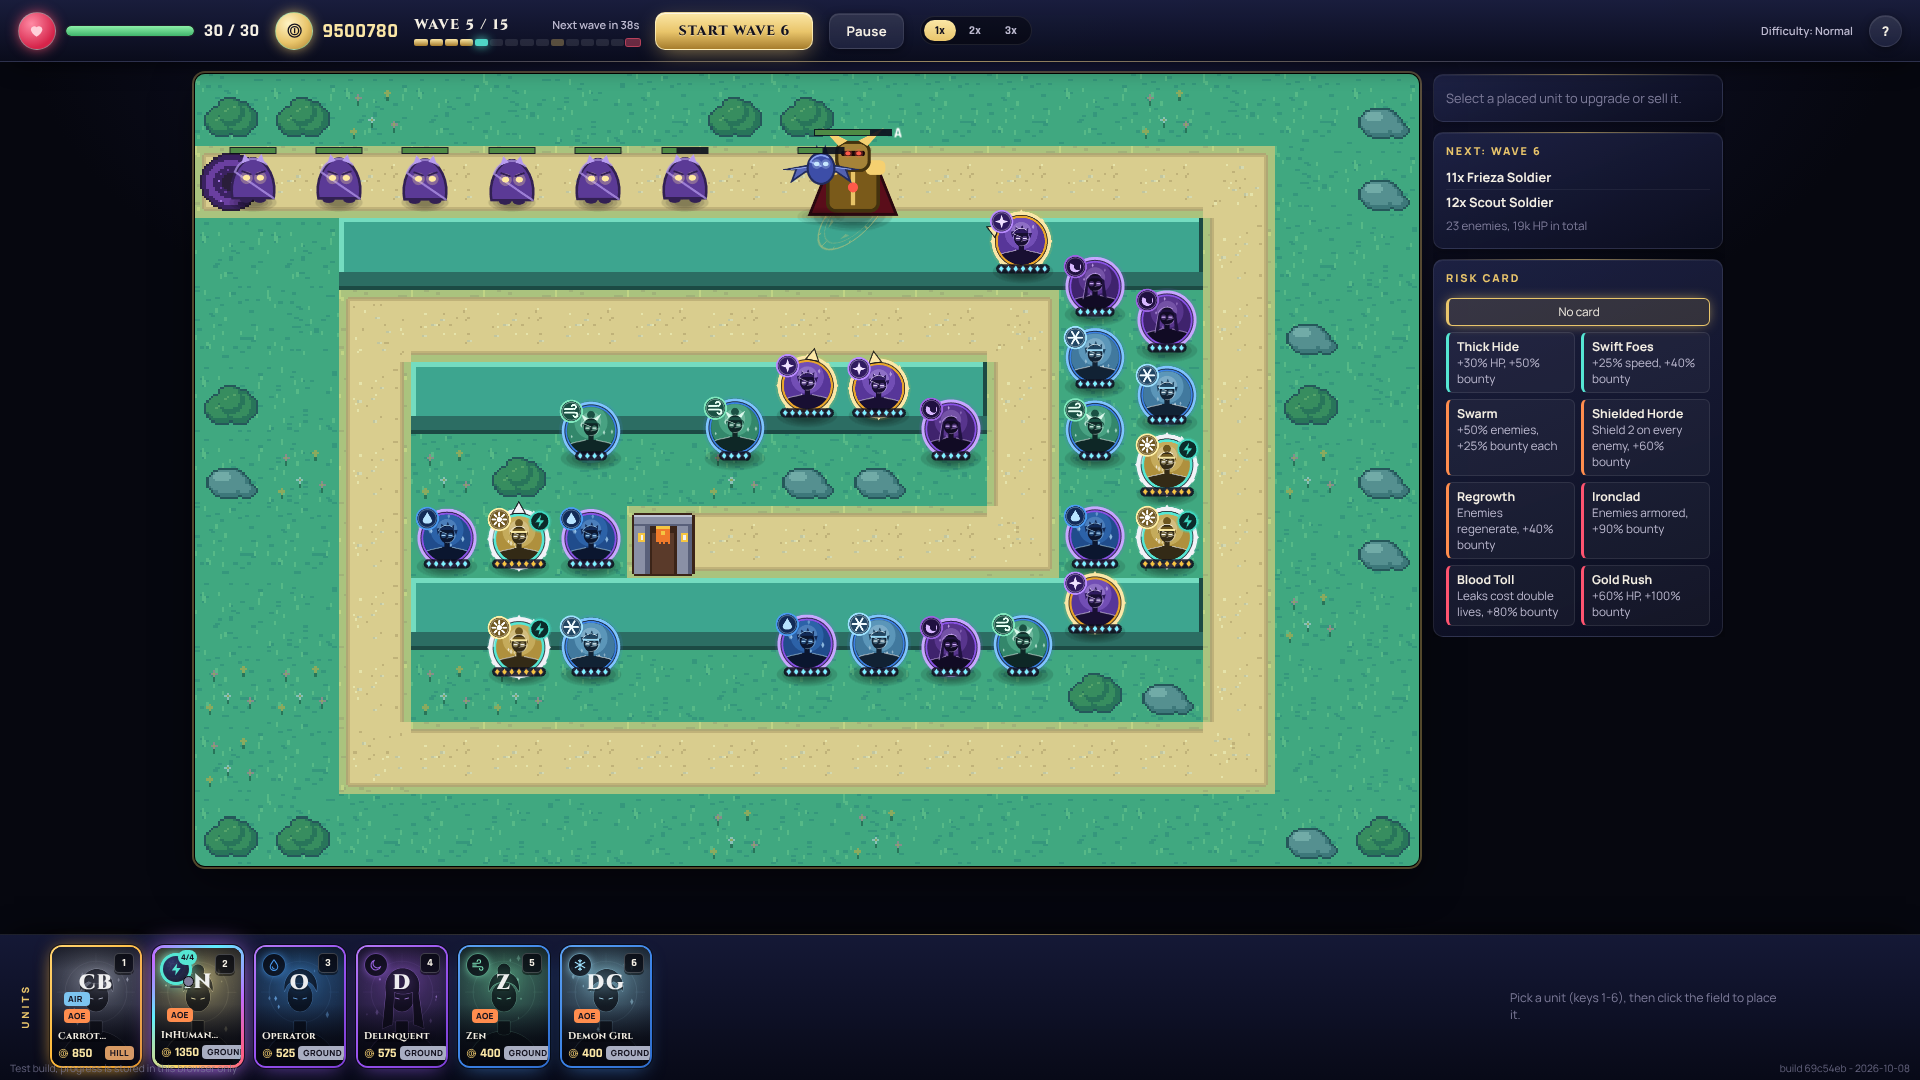
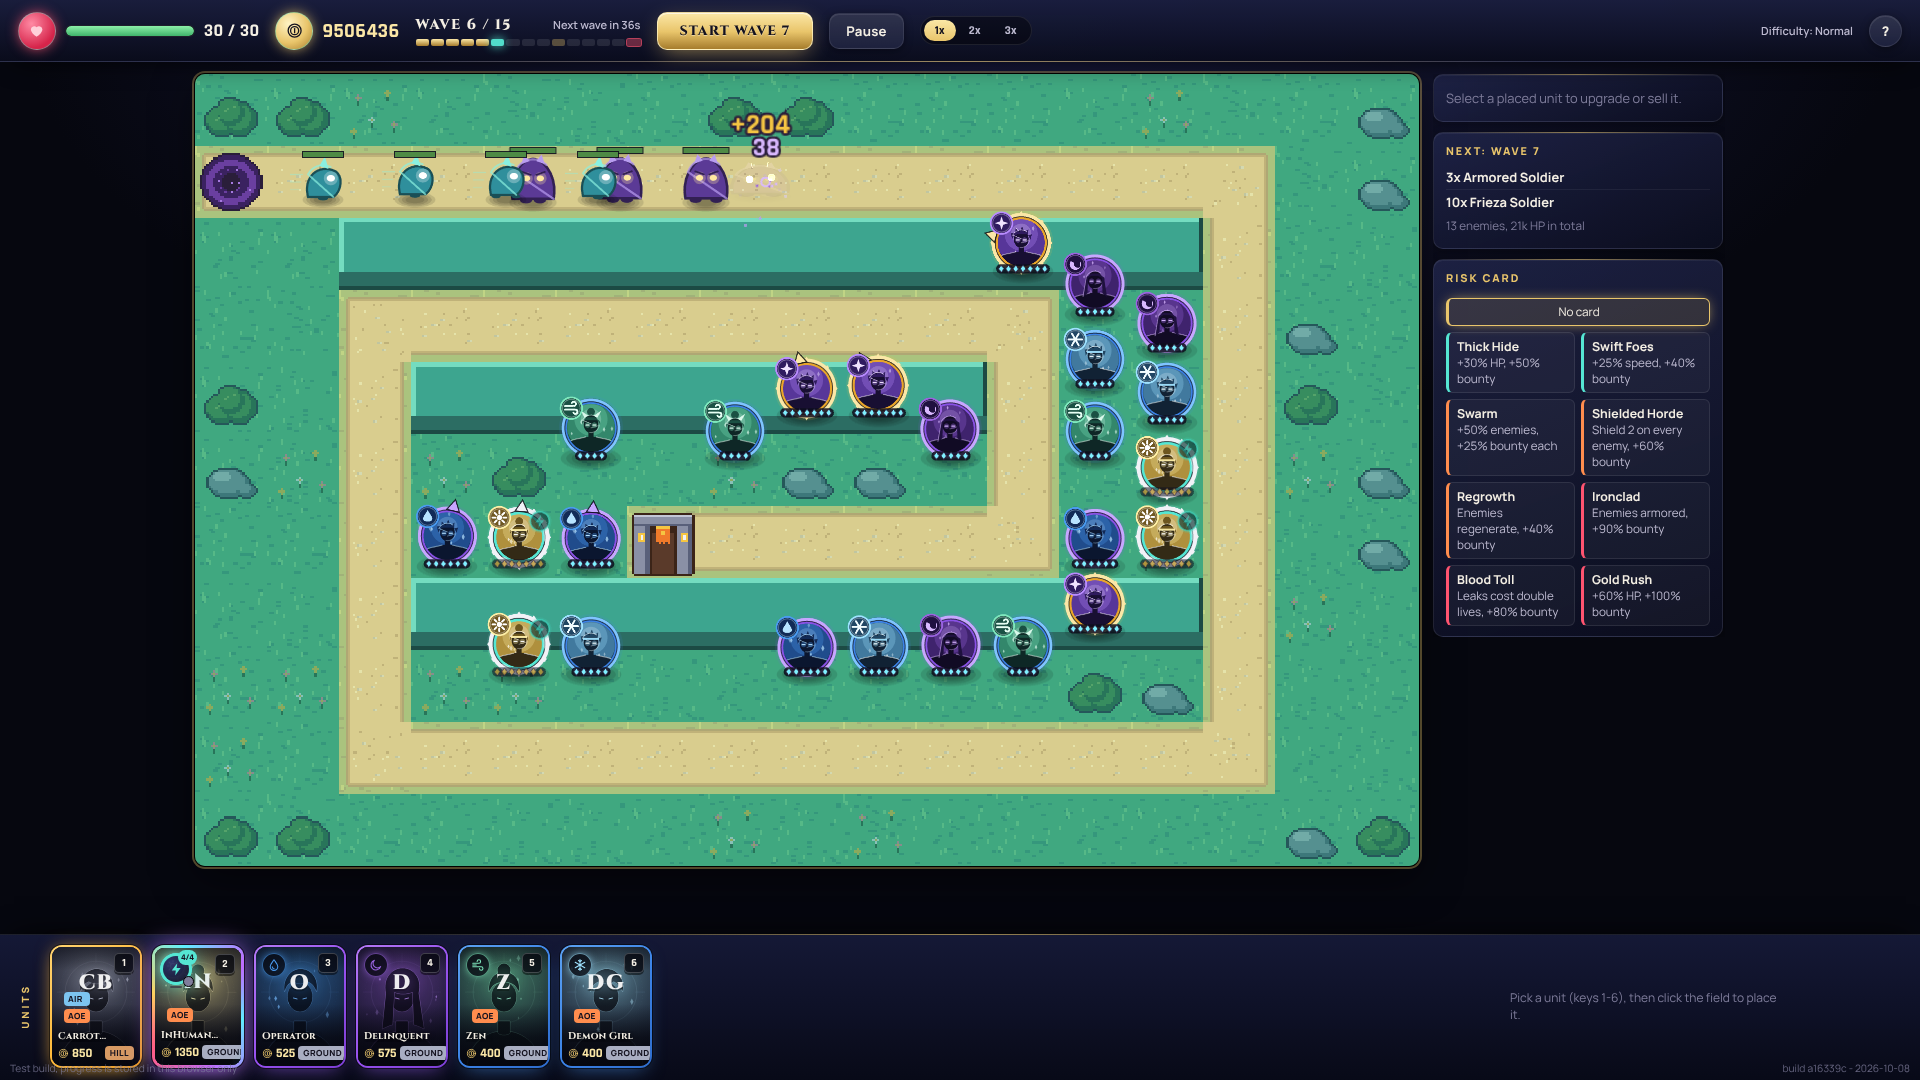
wip(r10-p2): README, ATTRIBUTIONS, Galerie-Skript, Aufsetz-Aufnahmen
Claude-Session: https://claude.ai/code/session_01LVAUDA1LFSz1X1v4vXCdua

diff --git a/client/src/game/fx.ts b/client/src/game/fx.ts
@@ -637,35 +637,49 @@ export class Fx {
   }
 
   private shoot(style: HitStyle, def: UnitDef, u: UnitState, ox: number, oy: number, tx: number, ty: number, rangeMilli: number, T: number): void {
-    const look = attackLook(style, def);
-    const el = look.element;
     const attack = def.levels[Math.min(u.level, def.levels.length - 1)].attack;
+    this.fire(style, attackLook(style, def), attack, rangeMilli, ox, oy, tx, ty, T);
+  }
+
+  /**
+   * Zeigt eine Angriffsform in einem Element ohne Sim (Galerie-Screenshot, Pruefskripte): Pixel-Koordinaten, Reichweite in Milli-Tiles.
+   * Nur Darstellung, es entsteht weder Schaden noch ein Ereignis.
+   */
+  demo(style: HitStyle, element: string, ox: number, oy: number, tx: number, ty: number, rangeMilli = 4000, radiusMilli = 1500): void {
+    const magic = element === 'magic' || element === 'true';
+    const look = attackLook(style, { elements: magic || element === 'physical' ? [] : [element], damageType: element === 'magic' ? 'magic' : element === 'true' ? 'true' : 'physical' });
+    this.fire(style, look, { radiusMilli, widthMilli: 700, coneDeg: 70 }, rangeMilli, ox, oy, tx, ty, this.ctx.tile);
+    for (const fn of this.shotListeners) fn(style, look.element.key);
+  }
+
+  private fire(style: HitStyle, look: ReturnType<typeof attackLook>, attack: { radiusMilli?: number; widthMilli?: number; coneDeg?: number } | null, rangeMilli: number, ox: number, oy: number, tx: number, ty: number, T: number): void {
+    const el = look.element;
     const ang = Math.atan2(ty - oy, tx - ox);
     const dist = Math.hypot(tx - ox, ty - oy);
     const mx = ox + Math.cos(ang) * T * 0.38;
     const my = oy + Math.sin(ang) * T * 0.38;
-    this.addEff({ k: K.Glow, dur: 0.1, x: mx, y: my, r: T * 0.2, color: el.main, w: 0.8 });
+    this.addEff({ k: K.Glow, dur: 0.1, x: mx, y: my, r: T * 0.22, color: el.main, w: 0.8 });
     switch (style) {
       case 'slash':
-        this.addEff({ k: K.Slash, dur: 0.22, x: tx, y: ty, r: T * 0.38, ang, w: Math.max(3, T * 0.07), el, shape: look.shape });
-        this.elBurst(el, tx, ty, 4, T * 1.4, 0.3, 4);
+        this.addEff({ k: K.Slash, dur: 0.24, x: tx, y: ty, r: T * 0.42, ang, w: Math.max(3, T * 0.08), el, shape: look.shape });
+        this.elBurst(el, tx, ty, 5, T * 1.5, 0.32, 4);
         break;
       case 'blast':
       case 'shell': {
         const R = ((attack?.radiusMilli ?? 1200) / 1000) * T;
         if (rangeMilli <= 2000) {
           // Nahkampf-Welle: kein Flug, die Druckwelle kommt gleich am Ziel
-          this.addEff({ k: K.Wave, dur: 0.34, x: tx, y: ty, r2: R, w: Math.max(2.5, T * 0.06), el, shape: look.shape });
+          this.addEff({ k: K.Wave, dur: 0.36, x: tx, y: ty, r2: R, w: Math.max(2.5, T * 0.07), el, shape: look.shape });
           this.elBurst(el, tx, ty, R > T * 1.5 ? 14 : 8, T * 2.2, 0.5, 5);
         } else {
           const d = this.projDur('orb', dist, T);
-          this.addEff({ k: K.Proj, dur: d, x: mx, y: my, x2: tx, y2: ty, r: T * 0.14, w: T * 0.08, el, shape: 'orb', after: After.Blast, r2: R });
+          this.addEff({ k: K.Proj, dur: d, x: mx, y: my, x2: tx, y2: ty, r: T * 0.15, w: T * 0.09, el, shape: 'orb', after: After.Blast, r2: R });
         }
         break;
       }
       case 'cone': {
         const half = ((attack?.coneDeg ?? 60) * Math.PI) / 360;
-        this.addEff({ k: K.Fan, dur: 0.34, x: ox, y: oy, r: (rangeMilli / 1000) * T, ang, spread: half, el, shape: look.shape });
+        this.addEff({ k: K.Fan, dur: 0.36, x: ox, y: oy, r: (rangeMilli / 1000) * T, ang, spread: half, el, shape: look.shape });
         this.elBurst(el, ox + Math.cos(ang) * T * 0.6, oy + Math.sin(ang) * T * 0.6, 6, T * 2.2, 0.4, 4);
         break;
       }
@@ -677,13 +691,13 @@ export class Fx {
         break;
       }
       case 'line':
-        this.addEff({ k: K.Beam, dur: 0.24, x: ox, y: oy, r: (rangeMilli / 1000) * T, w: ((attack?.widthMilli ?? 600) / 1000) * T, ang, el, shape: look.shape });
+        this.addEff({ k: K.Beam, dur: 0.26, x: ox, y: oy, r: (rangeMilli / 1000) * T, w: ((attack?.widthMilli ?? 600) / 1000) * T, ang, el, shape: look.shape });
         this.elBurst(el, tx, ty, 4, T * 1.3, 0.3, 4);
         break;
       default: {
         // Einzelziel aus der Ferne: Geschoss in Form des Elements
         const d = this.projDur(look.shape, dist, T);
-        this.addEff({ k: K.Proj, dur: d, x: mx, y: my, x2: tx, y2: ty, r: T * (look.shape === 'bullet' ? 0.06 : 0.1), w: T * (look.shape === 'bolt' ? 0.05 : 0.04), el, shape: look.shape, after: After.Impact });
+        this.addEff({ k: K.Proj, dur: d, x: mx, y: my, x2: tx, y2: ty, r: T * (look.shape === 'bullet' ? 0.075 : 0.12), w: T * (look.shape === 'bolt' ? 0.06 : 0.05), el, shape: look.shape, after: After.Impact });
       }
     }
   }

diff --git a/client/README.md b/client/README.md
@@ -107,14 +107,17 @@ Seit P0b (Runde 5) sind `ui/app.ts` und `game/renderer.ts` nur noch Verdrahtung.
 | `src/game/renderer.ts` | nur Pixi-Setup, Ebenen-Reihenfolge, `fit`, `draw()` | - (nicht anfassen) |
 | `src/game/map-layer.ts`, `map-compose.ts`, `palette.ts` | Karte aus Atlas-Kacheln (`map-compose` = reine Liste der Bilder, getestet) plus Huegel als Flaeche (`hillRects`, aus `stage.zones`; keine Slot-Platten mehr), Farben fuer Overlays | P4, Runde 6: P3 |
 | `src/game/atlas.ts` | laedt `assets/atlas/atlas.png|json`, Teil-Texturen, `scaleMode: 'nearest'` | P4 |
-| `src/game/sprites.ts` | Sprite-Fabrik fuer Units/Gegner (Atlas), Stufenpunkte, Auswahlring | P4 |
+| `src/game/figures.ts` | Runde 10 / P2: Figuren-Fabrik. Backt Texturen einmal (Portraet-Scheibe mit Seltenheits-Ring, gestaltete Ersatzfigur ohne Bild, Gegner je Typ in zwei Schrittbildern, Schatten, Element-Abzeichen, Glanz, Blickrichtungs-Keil, Splitter-Formen, Aura) und merkt sie je Kachelgroesse. Ersetzt `sprites.ts` (Atlas-Sprites) | P2 (Runde 10) |
 | `scripts/gen-sprites.mjs`, `scripts/build-atlas.mjs`, `scripts/lib/` | Pixel-Quellbilder erzeugen und zum Atlas packen; `scripts/shots-p4.mjs` Lesbarkeits-Screenshots | P4 |
 | `assets/` | `src/` (Quellbilder), `atlas/` (gepackt), `ATTRIBUTIONS.md` | P4 |
-| `src/game/entities-layer.ts` | Units/Gegner anlegen, positionieren, Lebensbalken | P4 |
+| `src/game/entities-layer.ts` | Units/Gegner anlegen, positionieren: Unit = Schatten + Scheibe + Ring + Pips + Element-Abzeichen + Keil zum Ziel (Wippen, Rueckstoss, Aufsetz-Hopser), Gegner = Figur je Typ mit Schrittbild, Blitz, Balken aus Sprites, Boss-Namensbanner, Aufloesung beim Tod | P4, Runde 10: P2 |
 | `src/game/overlay-layer.ts` | Reichweitenkreis (unter Figuren), Boss-Telegraph (Schraffur, Countdown, Fortschritt zum Brechen)/-Fenster (Panzer offen vs. keucht)/-Schild (darueber); Platzier-Modus: Zonen-Hervorhebung + Abdunkeln, Geist gruen/rot mit Grund, Reichweitenkreis | P1 (Platzieren, Runde 6: P3), P5 (Boss-Zeichnung) |
-| `src/game/fx.ts` | Effekte (P5): Schuesse/Treffer je Unit (Projektil, Aufschlag, Blast, Kegel, Linie), Schadenszahlen, Tod mit Zerfall, Muenz-Popup, Leak-Rand, Boss-Auftritt/-Phasen, Bildschuettern; alles gepoolt und gedeckelt. Liest nur Bus-Ereignisse und Sim-Zustand | P5 |
+| `src/game/fx.ts` | Effekte (P5, Runde 10 neu): Schuesse je Angriffsform x Element, Treffer-Funken, Schadenszahlen (Krit gelb und gross), Tod mit Muenzen, Aufsetz-/Upgrade-/Verkaufs-Effekt (am Befehl), Leak-Rand, Boss-Auftritt/-Phasen, Bildschuettern (Schalter `screenShake`); Splitter als Sprite-Pools (normal/additiv, je 130), Effekt-Deckel 90, `detailFactor` duennt bei Last aus. `Fx.demo()` zeigt eine Form in einem Element ohne Sim (Galerie-Skript). Liest nur Bus-Ereignisse und Sim-Zustand | P5, Runde 10: P2 |
+| `src/game/attack-gfx.ts` | Runde 10 / P2: reine Zeichenfunktionen je Angriffsform (Geschoss, Hieb, Druckwelle, Faecher, Strahl) mit Verzierung je Element (Feuer-Zungen, Wasser-Wellen, Eis-Kristall, Blitz-Zacken, Wind-Sicheln, Licht-Strahlen, Dunkel-Strudel, Rosenblaetter, Runenring) | P2 (Runde 10) |
 | `src/view/feel.ts` | reine Logik dazu (getestet): Trefferstil je Unit, Schuss-Erkennung (`cd` steigt), Zielwahl-Nachbildung, Schadenszahlen aus HP-Differenz, Ereignis -> Cue | P5 |
-| `src/audio/` | Ton (P5): `logic.ts` (Lautstaerke, Drosselung, Ereignis -> Klang, getestet), `recipes.ts` (Klang-Rezepte + Musik, nur Daten), `engine.ts` (WebAudio-Synthese, M = stumm, Context erst nach erster Nutzeraktion) | P5 |
+| `src/view/look.ts` | Runde 10 / P2, reine Daten und Logik (getestet): Elementfarben und Splitterart (`ELEMENT_LOOKS`), Seltenheits-Ringe, Gegner-Figuren je Typ (`ENEMY_LOOKS`), `attackLook(style, def)` = Angriffsform x Element -> Grafik, Krit-Schaetzung, `detailFactor` (Splitter-Deckel), Blickrichtung, Wippen, Aufsetz-Kurve | P2 (Runde 10) |
+| `src/ui/cutin.ts`, `cutin.css` | Runde 10 / P2: Faehigkeits-Ansage (Band in Elementfarbe, Karte der Unit, Name der Faehigkeit gross); nur fuer ausgeloeste Faehigkeiten, laeuft ueber dem Spiel ohne zu pausieren, `cutInModel` ist rein und getestet | P2 (Runde 10) |
+| `src/audio/` | Ton (P5): `logic.ts` (Lautstaerke, Drosselung, Ereignis -> Klang, getestet), `recipes.ts` (Klang-Rezepte + Musik, nur Daten), `engine.ts` (WebAudio-Synthese, M = stumm, Context erst nach erster Nutzeraktion). Runde 10 / P2 daneben: `logic-match.ts` (Schuss-Klang je Form x Element, Krit, Ansage, Boss-Tod) und `recipes-match.ts` (deren Rezepte); in den gemeinsamen Dateien nur die Typ-Union, die Drossel-Regeln und eine Zeile je im Motor | P5, Runde 10: P2 |
 | `src/ui/leak-shake.ts` | Leak: Leben-Anzeige wackelt (CSS-Klasse am Bus) | P5 |
 | `src/ui/app.ts` | Verdrahtung der DOM-Bausteine, `bind`/`update`/`showStart` | - (nur Einzeiler, ggf. P6 fuer Szenen) |
 | `src/ui/hud.ts` | Leben, Muenzen, Welle, Start/Pause, Tempo, Stufe | P1 |
@@ -137,6 +140,7 @@ Seit P0b (Runde 5) sind `ui/app.ts` und `game/renderer.ts` nur noch Verdrahtung.
 | `src/styles.css` | Stil; Abschnitte je Baustein ergaenzen, nichts umsortieren | alle, nur eigene Selektoren |
 | `src/game/recorder.ts`, `src/ui/download.ts` | Replay-Aufzeichnung (nur am `GameBus`) und JSON-Download (`replayDownloadBox()` fuer den End-Bildschirm, Pause-Knopf selbst eingehaengt); Nachspielen: `sim/scripts/replay.ts`, Abnahme `npm run replay-check` | P2 |
 | `scripts/smoke.mjs`, `scripts/lib/mouse.mjs` | Playwright-Smoke; `mouse.mjs` liest freie Stellen (`placementGrid`/`canPlace`, nur lesend) und klickt sie per echter Maus (auch von `replay-check.mjs` genutzt) | P1, Runde 6: P3 |
+| `scripts/perf-r10.mjs`, `shots-r10-p2.mjs`, `lib/profile.mjs` | Runde 10 / P2: Leistungsbeleg (30 Units, 80 Gegner, 1920x1080) und die Match-Screenshots samt Angriffs-Galerie nach `docs/r10/p2-*.png` (siehe unten) | P2 (Runde 10) |
 | `scripts/perf.mjs`, `shots-p5.mjs`, `audio-check.mjs`, `lib/drive.mjs` | FPS-Messung (W19, 3x, 1920x1080), P5-Screenshots, Ton-Pruefung; `drive.mjs` baut Runden ueber die Session-Schnittstelle auf | P5 |
 
 ### Haken: `GameBus` (`game/events.ts`)
@@ -164,6 +168,21 @@ Reproduzierbar: seedbarer Zufall, feste Packreihenfolge und Kompression, zweimal
 `gen-sprites.mjs` prueft das Farbbudget je Bild (Styleguide §4: 16, Pfadkacheln 24). Bilder von Hand oder aus Packs: PNG nach `assets/src/` legen (gleiche Namen ersetzen die erzeugten, dann `gen-sprites` **nicht** mehr laufen lassen oder dort die Zeile entfernen)
 und `node scripts/build-atlas.mjs`. Der Atlas wird als URL-Import gebuendelt (`dist/assets/atlas-*.png`, ~10 kB). Zeichenreihenfolge der Karte: Gras, Pfad (Kantenmaske), Huegel-Flaechen (Canvas-Rechtecke), Deko (Baeume/Felsen nur auf `#`-Kacheln, Blumen auf Boden), Spawn/Basis; die Atlas-Bilder `slot_*` aus Runde 5 sind ungenutzt (bleiben im Atlas);
 Figuren sind Sprites (Gegner mit zwei Geh-Frames, Blickrichtung per Spiegeln, Flieger mit Boden-Schatten). Palette-Swap: `Img.swap()` in `scripts/lib/pix.mjs` (fuer spaetere CC0-Packs).
+
+## Das Match im neuen Look (Runde 10, P2)
+
+Aussehen wird in `view/look.ts` entschieden (Daten, getestet) und in `game/figures.ts` (Figuren) und `game/attack-gfx.ts` (Angriffe) gezeichnet. Nichts davon liest Spielregeln; die Sim bleibt unveraendert.
+
+- **Units:** Portraet-Scheibe (`/aa/units/<id>.webp`, Mechanismus aus `view/portrait.ts` unveraendert) mit Seltenheits-Ring (Rare blau ... Secret weiss/tuerkis, ab Mythic mit drehendem Glanz), Schatten, Wippen im Stand (Phase je Unit), Keil am Ring zeigt zum Ziel (dreht weich), Stufen-Pips unten (Gold, bei Max-Stufe tuerkis), Element-Abzeichen oben links, Faehigkeit-bereit-Zeichen oben rechts. **Ohne Bild** steht eine gestaltete Ersatzfigur (Silhouette, Frisur und Zubehoer aus der ID, leuchtende Augen, Farbe aus dem Element), nie Initialen. Das Bild wird nachgeladen, sobald `hasPortrait` Ja sagt; die Figur tauscht sich dann selbst aus.
+- **Platzieren:** Geist ist die Portraet-Figur (halbtransparent, rot getoent an unerlaubter Stelle) mit Reichweitenkreis; nach dem Setzen faellt die Figur mit Hopser und Quetschen, ein Ring zieht sich zusammen und weitet sich beim Aufsetzen, Staub und (ab Legendary) Funken in Ringfarbe; Ton `place` hat den Aufschlag eingebaut. Der Effekt haengt am **Befehl** (`bus.onCommand`), nicht am Ereignis, damit er nie zu spaet kommt.
+- **Angriffe** je Form x Element (`attackLook`): Hieb = Bogen (Blitz: Zickzack-Kreuz, Wind: Doppelsichel, Eis: Bogen mit Eisspitzen), Fernkampf = Geschoss in Elementform (Feuer/Wasser/Dunkel/Licht/Magie Kugel mit Schweif, Blitz Zickzack, Eis Splitter, Wind Sichel, Rose kreisende Blaetter, physisch Leuchtspur), Kreis = Druckwelle mit Verzierung je Element, Kegel = Faecher, Linie = Strahl (Blitz gezackt), ganze Bahn = Welle ueber die Reichweite. Die Unit leuchtet und stoesst beim Schuss zurueck.
+- **Treffer und Tod:** Schadenszahlen aus der HP-Differenz (Farbe = Element, Krit gelb, gross und mit `!`, dazu Sterne und Ton), Gegner blitzt weiss, Tod = Aufloesung, Splitter in Gegnerfarbe und Muenzen, die hochspringen. **Krit** ist eine Schaetzung (die Sim meldet ihn nicht): eine Unit mit Crit-Chance, deren einzelner Schuss deutlich ueber dem Grundschaden liegt (`guessCrit`); in Randfaellen kann sie falsch liegen, nur Anzeige.
+- **Faehigkeit:** Ganzbild-Ansage (`ui/cutin.ts`) mit Band in Elementfarbe, Karte der Unit und dem Namen der Faehigkeit; dazu am Feld Sammel-Ring, Ausbruch und Ruckeln. Automatisch ausgeloeste Faehigkeiten bleiben leise. **Bildschirmruckeln** (Faehigkeit, Boss-Auftritt, Boss-Tod, Leak, schwere Flaechentreffer, grosse Treffer auf Bosse) ist in den Einstellungen abschaltbar (`screenShake`, Spiel-Gruppe) und folgt `prefers-reduced-motion`.
+- **Gegner:** je Typ eine eigene Figur (Grunt Blob, Runner Sprinter mit Streifen, Brute Panzerklotz, Flyer Fluegel, Splitter, Elite mit Umhang und Horn-Helm, Boss mit Hoernerkrone und Kern), zwei Schrittbilder, Wippen, Schatten (Flieger hoeher), Aura unter Elite/Boss. HP-Balken aus Sprites (kein Neuzeichnen), Bosse gross mit **Namensbanner** und Auftritts-Effekt; Balken und Banner rutschen unter den oberen Rand, wenn sie sonst aus dem Feld ragen.
+- **Ton im Match:** Platzieren (mit Aufschlag), Upgrade, Verkaufen, Schuesse (Einzelziel: nach Element, dezent und leiser; Flaeche: Knall/Faecher/Strahl), Krit, Treffer-Drosselung, Tod, Faehigkeits-Ansage, Boss-Auftritt, Boss-Tod, Welle startet, Sieg, Niederlage. Alles synthetisiert, Lautstaerke-Regler und M bestehen schon. Dateien (Kenney u. a.) sind als Wunschliste in STATUS vermerkt, bis dahin gilt die Synthese.
+- **Leistung:** Figuren sind gebackene Texturen (ein Zeichnen je Typ und Kachelgroesse), je Frame nur Position/Drehung/Alpha; Splitter sind Sprites aus zwei festen Pools, Effekte gedeckelt (90), `detailFactor` nimmt bei Last Splitter weg, Schuesse ueber 14 je Frame bekommen nur Aufleuchten und Ton. Beleg: `npm run build && npm run perf:r10` (30 Units, 80 Gegner, 1920x1080; JS-Zeit je Frame und Pool-Spitzen). Headless-Chromium rendert mit SwiftShader und liegt dabei bei etwa 4-5 fps **auch mit dem Stand vor Runde 10**, die FPS-Zahl taugt dort nur zum Vergleich, die JS-Zeit (~2-3 ms je Frame) zeigt den Rechenanteil.
+
+Screenshots: `npm run build && node scripts/shots-r10-p2.mjs` (Port `SHOT_PORT`, Aufloesung `SHOT_W`/`SHOT_H`, `SHOT_ONLY=match|gallery`) schreibt `docs/r10/p2-*.png`: Match mit vielen Units, Salve, Platzier-Vorschau (gruen/rot), Aufsetzen, Faehigkeits-Ansage, Boss, und die **Galerie** `p2-gallery-*` (jede Angriffsform in jedem Element, zu festen Zeitpunkten getaktet). Lokal gibt es keine Portraets, die Screenshots zeigen daher die gestalteten Ersatzfiguren.
 
 ## Grenzen
 

diff --git a/client/assets/ATTRIBUTIONS.md b/client/assets/ATTRIBUTIONS.md
@@ -63,3 +63,16 @@ Laut Kurswechsel 07.10.2026 sind AA-Inhalte erlaubt; die Herkunft ist trotzdem f
 | Anime Adventures Wiki (Community-Wiki), Recherche in `docs/anime-adventures/data/` | Unit-Namen, Werte, Angriffe, Effekte, Evolutionen, Traits, Banner, Bosse und Welten; per Importer (`npm run aa-import`) in `sim/data/` und `meta/data/` | 07.10.2026 |
 | Bilder aus dem AA-Wiki | Porträts unter `/aa/units/ID.webp` (Preview-Server liefert sie aus, Quelle je Eintrag in `client/public/aa/manifest.json`); lokal ohne Bild zeigt das Spiel die gestaltete Ersatzkarte | laufend |
 | Crossover-Figuren (`x_*`) | eigene Daten (`sim/data/units/crossover.json`) nach Vorbildern aus Film, Musik und Netz; Bilder über `imageQuery` im Manifest | 08.10.2026 |
+
+## Runde 10 / P2: Match-Figuren, Angriffs-Grafik, Match-Ton (alles eigen, kein Pack)
+
+Stand 08.10.2026. Der Download freier Packs (Kenney, OpenGameArt, freesound) ist aus der Agent-Umgebung weiter gesperrt (Proxy 403), es wurde **nichts** eingebunden; die Wunschliste mit Adressen steht in `docs/STATUS.md` unter „Für die Homelab-Seite“.
+
+| Was | Wo | Lizenz | Urheber |
+|---|---|---|---|
+| Unit-Figuren (Scheibe, Seltenheits-Ring, gestaltete Ersatzfigur), Gegner-Figuren je Typ, Abzeichen, Splitter-Formen | `src/game/figures.ts` (Pixi-Grafik im Code, zur Laufzeit gebacken) | eigen (Projektlizenz des Repos) | Claude (Anthropic) im Auftrag von Max/Flashkeks |
+| Angriffs-Grafik je Form x Element | `src/game/attack-gfx.ts`, `src/view/look.ts` | eigen | wie oben |
+| Faehigkeits-Ansage | `src/ui/cutin.ts`, `cutin.css` | eigen | wie oben |
+| Match-Klaenge (Element-Schuesse, Krit, Ansage, Boss-Tod, Aufschlag beim Platzieren) | `src/audio/recipes-match.ts` (WebAudio-Synthese, keine Dateien) | eigen | wie oben |
+
+Die Pixel-Sprites der Gegner im Atlas (`enemies/*`) werden im Match nicht mehr gezeichnet; die Karte nutzt den Atlas weiter (Gras, Pfad, Deko, Tor, Portal).
